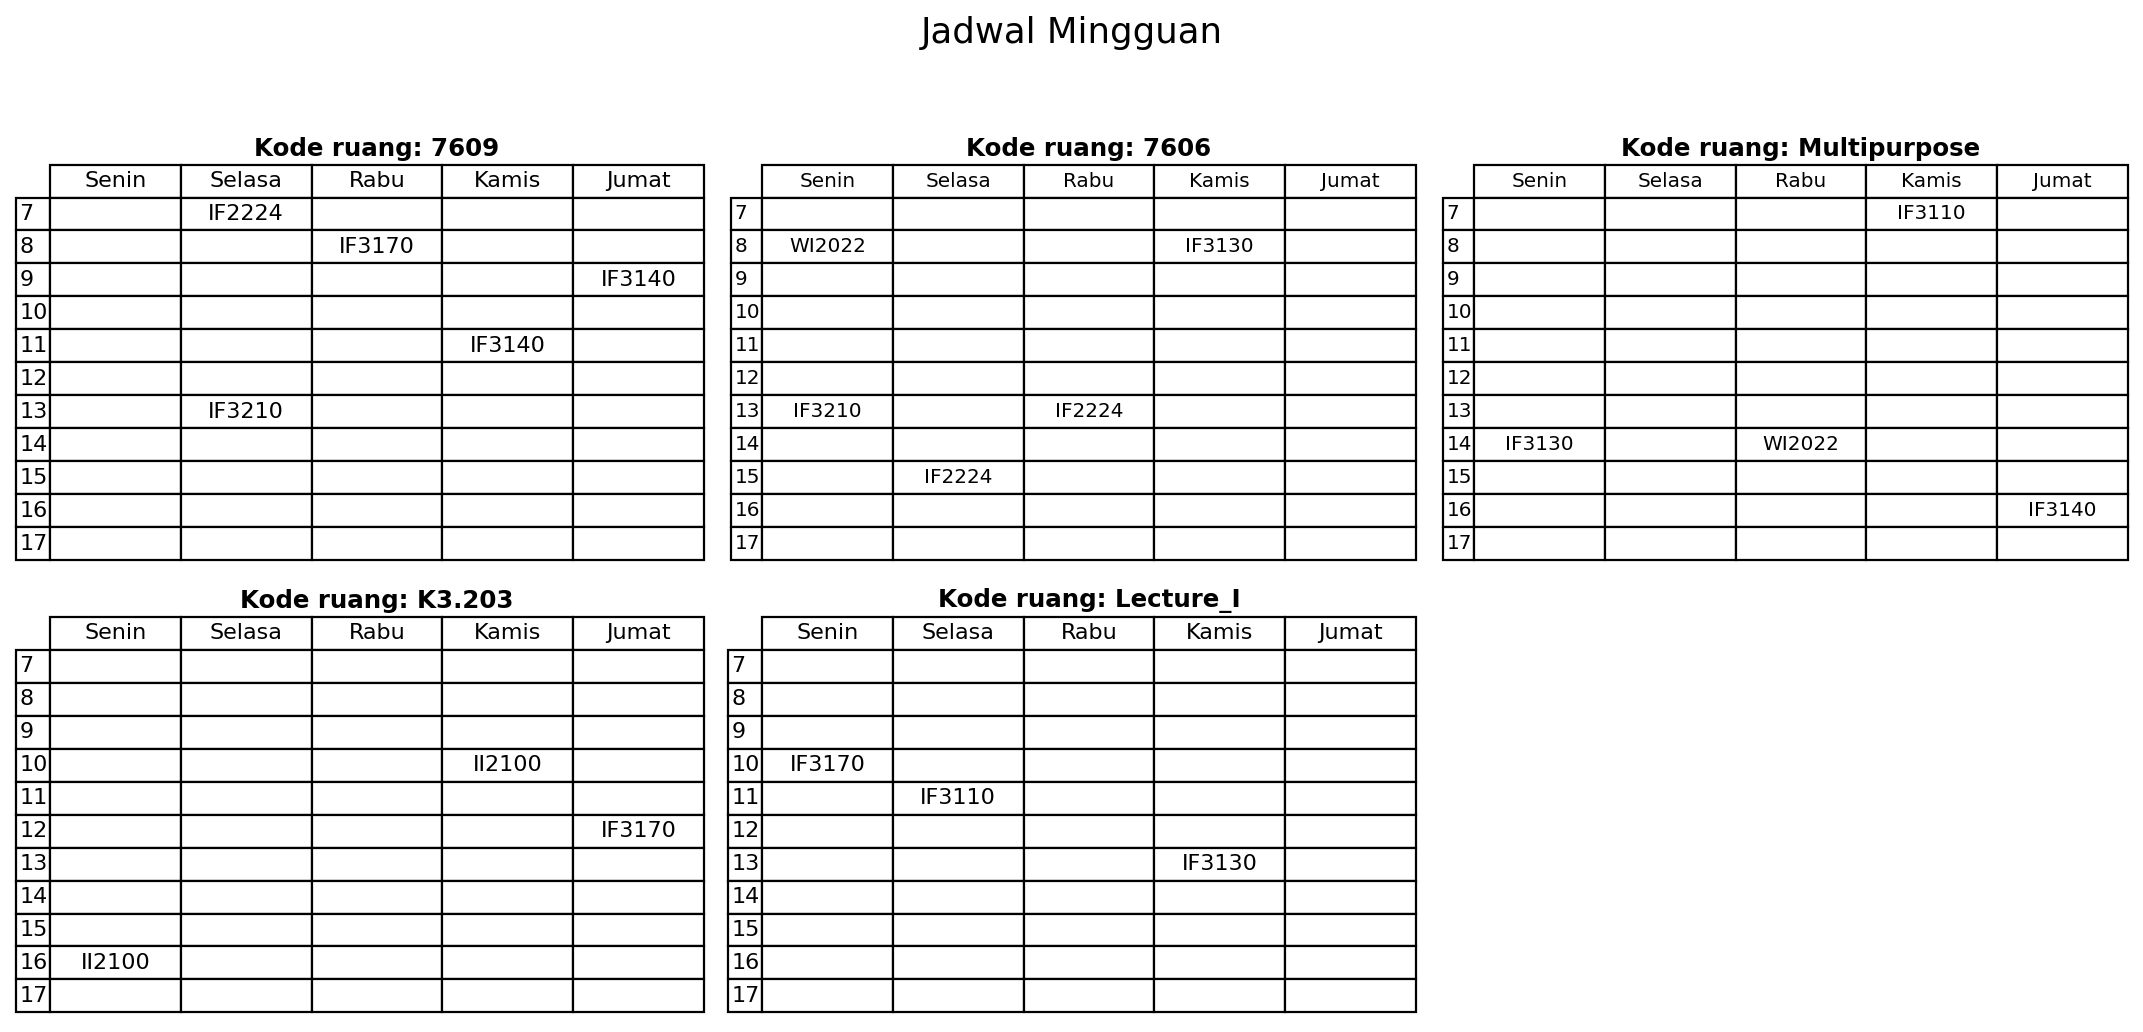
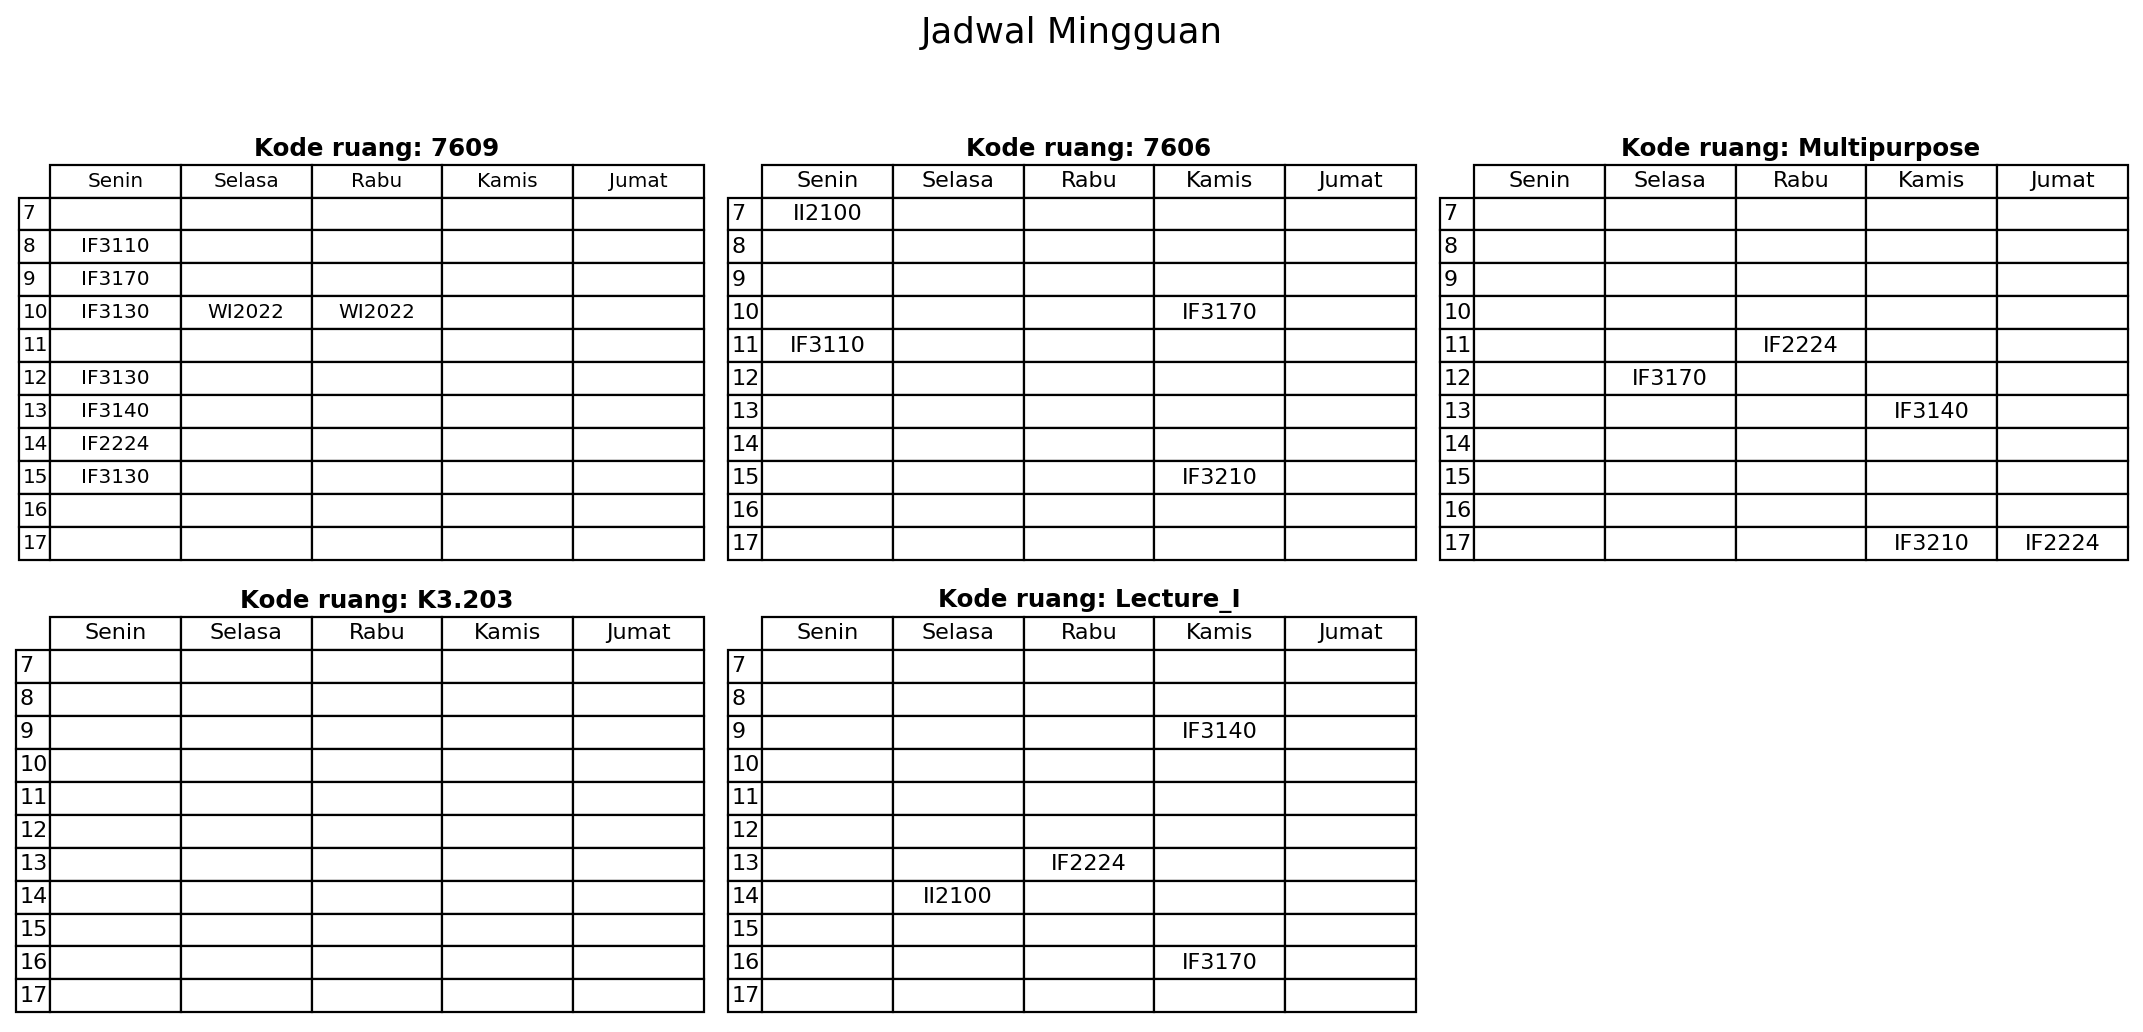
fix: getNeighbors menghasilkan semua kemungkinan successor

diff --git a/src/algorithm/hill_climbing.py b/src/algorithm/hill_climbing.py
@@ -3,170 +3,123 @@ import random
 from utils.objective import evaluate
 
 def getNeighbors(state, slots, kelas_mata_kuliah):
-    import copy, random
-    neighbor_state = copy.deepcopy(state)
-    unique_classes = list(set(state.values()))
-    rand_num = random.random()
+    neighbors = []
+    filled_slots = list(state.keys())
+    empty_slots = [slot for slot in slots if slot not in state]
 
-    if rand_num < 0.5:
-        # ===== MOVE =====
-        kode_kelas = random.choice(unique_classes)
-        # pilih 1 slot lama dari kelas tsb
-        slot_lama = random.choice([s for s, v in state.items() if v == kode_kelas])
+    # ======================= MOVE =======================
+    for slot_lama in filled_slots:
+        kode_kelas = state[slot_lama]
+        for slot_baru in empty_slots:
+            neighbor = copy.deepcopy(state)
+            # pindahkan kelas dari slot_lama ke slot_baru
+            del neighbor[slot_lama]
+            neighbor[slot_baru] = kode_kelas
+            neighbors.append(neighbor)
 
-        # hapus slot lama
-        del neighbor_state[slot_lama]
+    # ======================= SWAP =======================
+    for i in range(len(filled_slots)):
+        for j in range(i + 1, len(filled_slots)):
+            slot1, slot2 = filled_slots[i], filled_slots[j]
+            if state[slot1] == state[slot2]:
+                continue  # gak perlu swap kelas yang sama
 
-        # pilih slot baru (boleh bentrok biar Objective 2 bisa aktif)
-        slot_baru = random.choice(slots)
-        neighbor_state[slot_baru] = kode_kelas
+            neighbor = copy.deepcopy(state)
+            # tukar kelas di slot1 dan slot2
+            neighbor[slot1], neighbor[slot2] = neighbor[slot2], neighbor[slot1]
+            neighbors.append(neighbor)
 
-        return neighbor_state
+    return neighbors
 
-    else:
-        # ===== SWAP =====
-        if len(unique_classes) < 2:
-            return neighbor_state
-
-        kelas1, kelas2 = random.sample(unique_classes, 2)
-        slot_kelas1 = [s for s, v in state.items() if v == kelas1]
-        slot_kelas2 = [s for s, v in state.items() if v == kelas2]
-
-        if not slot_kelas1 or not slot_kelas2:
-            return neighbor_state
-
-        # pilih 1 slot dari masing-masing kelas
-        slot1 = random.choice(slot_kelas1)
-        slot2 = random.choice(slot_kelas2)
-
-        # tukar isinya langsung
-        neighbor_state[slot1], neighbor_state[slot2] = neighbor_state[slot2], neighbor_state[slot1]
-
-        return neighbor_state
-
-def hill_climbing_steepest(state, data, slots, max_iter=1000):
+def hill_climbing_steepest(state, data, slots):
     current = state
     current_score = evaluate(current, data)
-    visited = {tuple(sorted(current.items()))}
     scores = [current_score]
 
     print(f"[INIT] Nilai fungsi objektif awal = {current_score}")
+    step = 0
 
-    for step in range(max_iter):
-        attempts = 0
-        candidate = None
-
-        # cari 1 neighbor yang valid
-        while attempts < 100:
-            attempts += 1
-            print(f"[DEBUG] Percobaan neighbor ke-{attempts}")
-            neighbor = getNeighbors(current, slots, data["kelas_mata_kuliah"])
-            if neighbor is None:
-                print("[DEBUG] Tetangga yang dihasilkan tidak ada, coba lagi.")
-                continue
-
-            signature = tuple(sorted(neighbor.items()))
-            if signature in visited:
-                print("[DEBUG] Tetangga sudah pernah dikunjungi, coba lagi.")
-                continue
-
-            candidate = neighbor
-            visited.add(signature)
-            print("[DEBUG] Tetangga valid ditemukan.")
+    while current_score > 0:
+        step += 1
+        neighbors = getNeighbors(current, slots, data["kelas_mata_kuliah"])
+        if not neighbors:
+            print("[STOP] Tidak ada tetangga ditemukan.")
             break
 
-        # tidak ada tetangga baru
-        if candidate is None:
-            print("[STOP] Tidak ada tetangga valid ditemukan, berhenti.")
+        # evaluasi semua tetangga
+        scored_neighbors = [(evaluate(n, data), n) for n in neighbors]
+        scored_neighbors.sort(key=lambda x: x[0])  # ambil skor terkecil
+        best_score, best_neighbor = scored_neighbors[0]
+
+        print(f"[STEP {step+1}] Current={current_score}, BestNeighbor={best_score}")
+
+        # kalau gak ada perbaikan, stop
+        if best_score >= current_score:
+            print("[STOP] Tidak ada perbaikan lebih lanjut (local optimum).")
             break
 
-        neighbor_score = evaluate(candidate, data)
-        print(f"[STEP {step+1}] Current={current_score}, Neighbor={neighbor_score}")
+        # update
+        current, current_score = best_neighbor, best_score
+        scores.append(current_score)
 
-        # evaluasi hasil
-        if neighbor_score < current_score:
-            current, current_score = candidate, neighbor_score
-            scores.append(current_score)
-        elif neighbor_score <= 0:
+        if current_score <= 0:
             print("[DONE] Solusi optimal ditemukan.")
-            current, current_score = candidate, neighbor_score
-            scores.append(current_score)
-            break
-        else:
-            print("[STOP] Tidak ada perbaikan lebih lanjut, berhenti.")
             break
 
     return current, current_score, scores
 
 
-
-def hill_climbing_sideways(state, data, slots, max_iter=1000, max_side=20):
+def hill_climbing_sideways(state, data, slots, max_side=20):
     current = state
     current_score = evaluate(current, data)
-    visited = {tuple(sorted(current.items()))}
     scores = [current_score]
     side_count = 0
 
     print(f"[INIT] Nilai fungsi objektif awal = {current_score}")
 
-    for step in range(max_iter):
-        attempts = 0
-        candidate = None
-
-        # cari 1 neighbor yang valid
-        while attempts < 100:
-            attempts += 1
-            print(f"[DEBUG] Percobaan neighbor ke-{attempts}")
-            neighbor = getNeighbors(current, slots, data["kelas_mata_kuliah"])
-            if neighbor is None:
-                print("[DEBUG] Tetangga yang dihasilkan tidak ada, coba lagi.")
-                continue
-
-            signature = tuple(sorted(neighbor.items()))
-            if signature in visited:
-                print("[DEBUG] Tetangga sudah pernah dikunjungi, coba lagi.")
-                continue
-
-            candidate = neighbor
-            visited.add(signature)
-            print("[DEBUG] Tetangga valid ditemukan.")
+    step = 0
+    while current_score > 0:
+        step += 1
+        neighbors = getNeighbors(current, slots, data["kelas_mata_kuliah"])
+        if not neighbors:
+            print("[STOP] Tidak ada tetangga ditemukan.")
             break
 
-        if candidate is None:
-            print("[STOP] Tidak ada tetangga valid ditemukan, berhenti.")
-            break
+        scored_neighbors = [(evaluate(n, data), n) for n in neighbors]
+        scored_neighbors.sort(key=lambda x: x[0])
+        best_score, best_neighbor = scored_neighbors[0]
 
-        neighbor_score = evaluate(candidate, data)
-        print(f"[STEP {step+1}] Current={current_score}, Neighbor={neighbor_score}, Sideways={side_count}")
+        print(f"[STEP {step+1}] Current={current_score}, BestNeighbor={best_score}, Sideways={side_count}")
 
-        # evaluasi hasil
-        if neighbor_score < current_score:
-            current, current_score = candidate, neighbor_score
+        # jika skor lebih baik
+        if best_score < current_score:
+            current, current_score = best_neighbor, best_score
             scores.append(current_score)
             side_count = 0
-        elif neighbor_score == current_score and side_count < max_side:
-            print(f"[SIDEWAYS] Langkah datar ke-{side_count+1}")
-            current, current_score = candidate, neighbor_score
-            scores.append(current_score)
+        # jika skor sama, boleh jalan datar
+        elif best_score == current_score and side_count < max_side:
             side_count += 1
-        elif neighbor_score <= 0:
-            print("[DONE] Solusi optimal ditemukan.")
-            current, current_score = candidate, neighbor_score
+            current, current_score = best_neighbor, best_score
             scores.append(current_score)
-            break
+            print(f"[SIDEWAYS] Langkah datar ke-{side_count}")
         else:
             print("[STOP] Tidak ada perbaikan lebih lanjut, berhenti.")
             break
 
+        if current_score <= 0:
+            print("[DONE] Solusi optimal ditemukan.")
+            break
+
     return current, current_score, scores
 
-def hill_climbing_random_restart(state, data, slots, max_restarts=10, max_iter=1000):
-    best_state = state
-    best_score = evaluate(state, data)
+def hill_climbing_random_restart(data, slots, max_restarts=10):
+    best_state = None
+    best_score = float('inf')
     best_scores = []
 
     for restart in range(max_restarts):
-        print(f"Restart {restart+1}")
+        print(f"\n[RESTART {restart+1}]")
+        # generate state acak
         initial_state = {}
         kelas_list = data["kelas_mata_kuliah"]
         random.shuffle(kelas_list)
@@ -185,62 +138,49 @@ def hill_climbing_random_restart(state, data, slots, max_restarts=10, max_iter=1
                         placed = True
                         break
 
+        # jalankan steepest ascent
+        final_state, final_score, _ = hill_climbing_steepest(initial_state, data, slots)
+        best_scores.append(final_score)
 
-        new_state, new_score, scores = hill_climbing_steepest(initial_state, data, slots, max_iter=max_iter)
-        best_scores.append(new_score)
-        if new_score < best_score:
-            best_state, best_score = new_state, new_score
+        if final_score < best_score:
+            best_score = final_score
+            best_state = final_state
 
+        print(f"[RESTART {restart+1}] Score terbaik = {final_score}")
+
+    print(f"\n[FINAL] Skor terbaik dari semua restart = {best_score}")
     return best_state, best_score, best_scores
 
-def hill_climbing_stochastic(state, data, slots, max_iter=1000, max_attempts=50):
+def hill_climbing_stochastic(state, data, slots, max_iter=1000):
     current = state
     current_score = evaluate(current, data)
-    visited = {tuple(sorted(current.items()))}  # simpan bentuk hash
     scores = [current_score]
 
     print(f"[INIT] Score awal = {current_score}")
 
     for step in range(max_iter):
-        neighbor = None
-        attempts = 0
-
-        # generate neighbor yang belum pernah diambil
-        while attempts < max_attempts:
-            print(f"[DEBUG] Mencari tetangga valid, percobaan ke-{attempts+1}")
-            attempts += 1
-            candidate = getNeighbors(current, slots, data["kelas_mata_kuliah"])
-            if candidate is None:
-                print("[DEBUG] Tetangga yang dihasilkan tidak ada, coba lagi.")
-                continue
-
-            key = tuple(sorted(candidate.items()))
-            if key not in visited:
-                neighbor = candidate
-                visited.add(key)
-                break
-            else:
-                print("[DEBUG] Tetangga sudah pernah dikunjungi, coba lagi.")
-                continue
-
-        # kalau gak ada neighbor baru
-        if neighbor is None:
-            print(f"[STOP] Tidak ada neighbor baru setelah {max_attempts} percobaan.")
+        neighbors = getNeighbors(current, slots, data["kelas_mata_kuliah"])
+        if not neighbors:
+            print("[STOP] Tidak ada tetangga ditemukan.")
             break
 
-        neighbor_score = evaluate(neighbor, data)
-        scores.append(neighbor_score)
-        print(f"[STEP {step}] Score {current_score} → {neighbor_score}")
+        # ambil tetangga yang lebih baik dari current
+        better_neighbors = [n for n in neighbors if evaluate(n, data) < current_score]
 
-        # kalo neighbor lebih bagus, pindah ke neighbor
-        if neighbor_score < current_score:
-            current, current_score = neighbor, neighbor_score
-        else:
-            pass
+        if not better_neighbors:
+            print("[STOP] Tidak ada neighbor yang lebih baik, berhenti.")
+            break
 
-        # stop duluan kalo udah optimal
+        # pilih 1 random dari yang lebih baik
+        next_state = random.choice(better_neighbors)
+        next_score = evaluate(next_state, data)
+        print(f"[STEP {step+1}] {current_score} -> {next_score}")
+
+        current, current_score = next_state, next_score
+        scores.append(current_score)
+
         if current_score <= 0:
-            print(f"[DONE] Solusi optimal ditemukan di iter {step}")
+            print("[DONE] Solusi optimal ditemukan.")
             break
 
     return current, current_score, scores

diff --git a/src/main.py b/src/main.py
@@ -67,7 +67,7 @@ if __name__ == "__main__":
     if n == 1:
         print("\nStarting Hill Climbing (Steepest)...")
         start_time = time.time()
-        final_state, final_score, scores = hill_climbing_steepest(state_awal, data, slots, max_iter=1000)
+        final_state, final_score, scores = hill_climbing_steepest(state_awal, data, slots)
         duration = time.time() - start_time
         algo_name = "Hill Climbing (Steepest)"
 
@@ -78,7 +78,7 @@ if __name__ == "__main__":
     elif n == 2:
         print("\nStarting Hill Climbing with Sideways Move...")
         start_time = time.time()
-        final_state, final_score, scores = hill_climbing_sideways(state_awal, data, slots, max_iter=1000, max_side=500)
+        final_state, final_score, scores = hill_climbing_sideways(state_awal, data, slots, max_side=500)
         duration = time.time() - start_time
         algo_name = "Hill Climbing (Sideways Move)"
 
@@ -90,7 +90,7 @@ if __name__ == "__main__":
     elif n == 3:
         print("\nStarting Hill Climbing with Random Restart...")
         start_time = time.time()
-        final_state, final_score, scores = hill_climbing_random_restart(state_awal, data, slots, max_restarts=100, max_iter=1000)
+        final_state, final_score, scores = hill_climbing_random_restart(data, slots, max_restarts=100)
         duration = time.time() - start_time
         algo_name = "Hill Climbing (Random Restart)"
 
@@ -102,7 +102,7 @@ if __name__ == "__main__":
     elif n == 4:
         print("\nStarting Stochastic Hill Climbing...")
         start_time = time.time()
-        final_state, final_score, scores = hill_climbing_stochastic(state_awal, data, slots, max_iter=1000, max_attempts=50)
+        final_state, final_score, scores = hill_climbing_stochastic(state_awal, data, slots, max_iter=1000)
         duration = time.time() - start_time
         algo_name = "Stochastic Hill Climbing"
 
